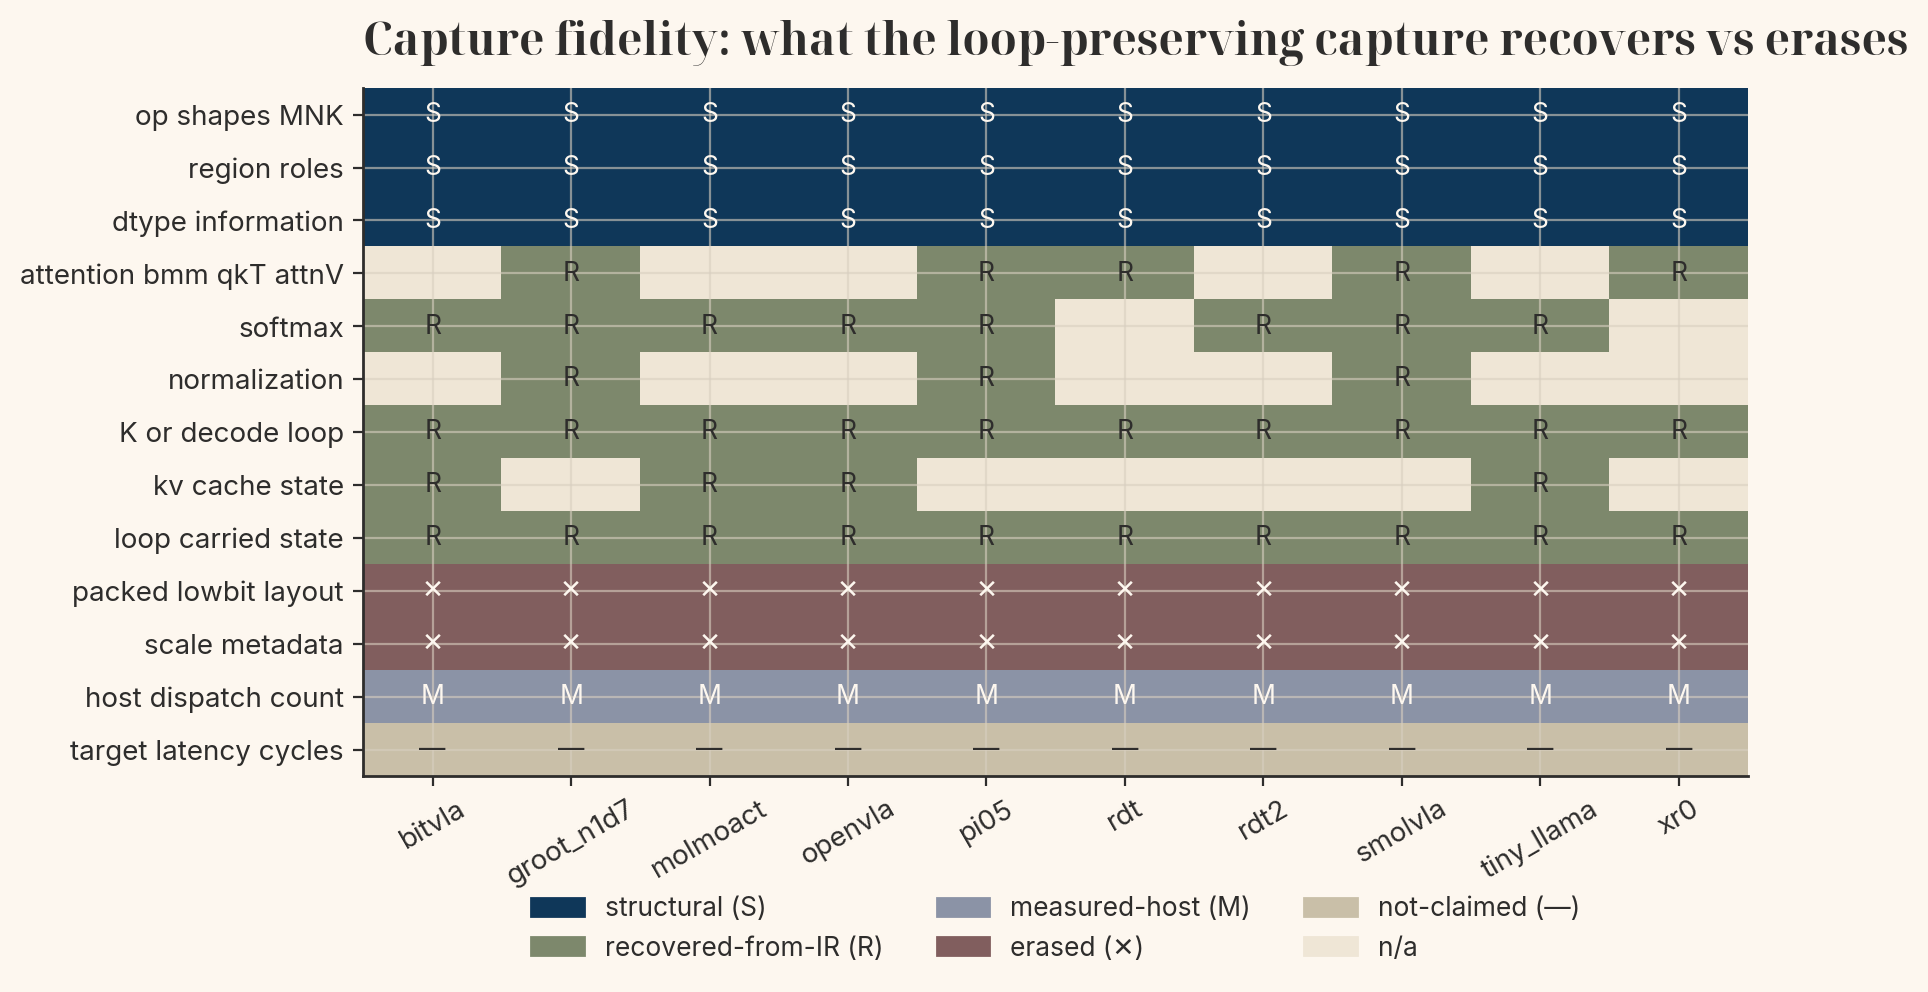
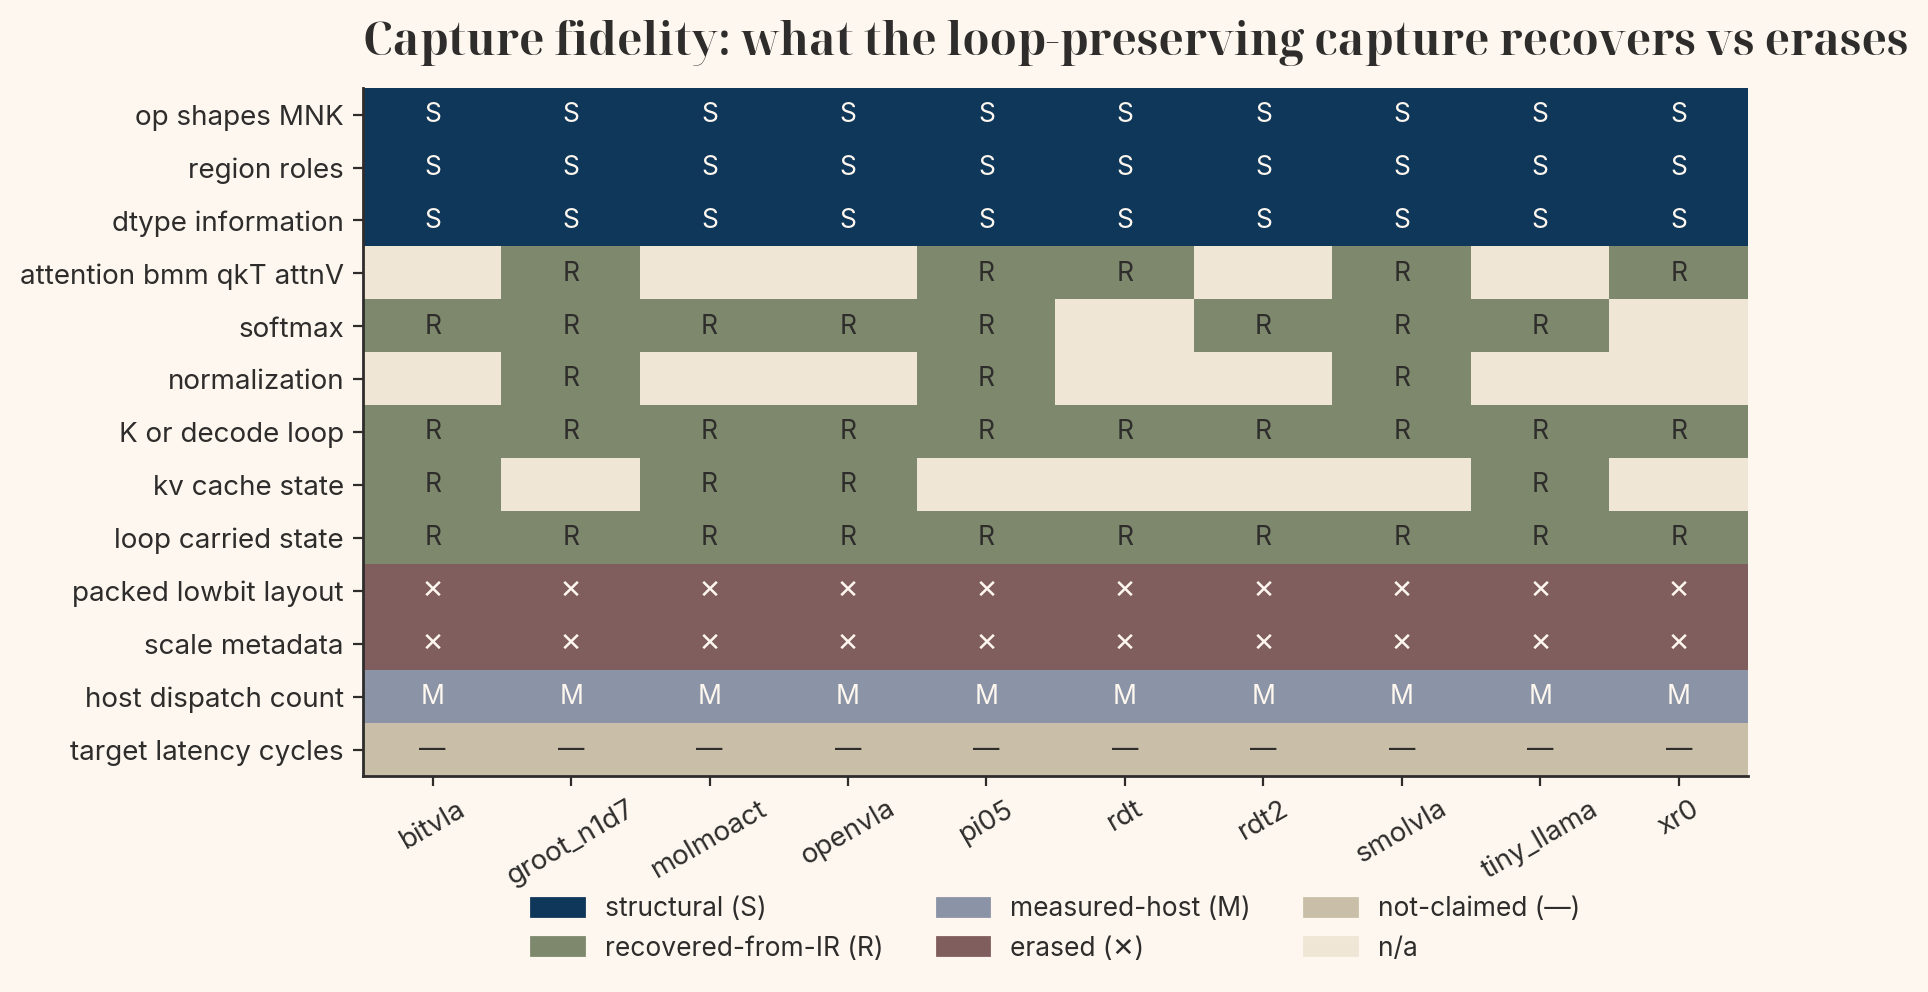
P26 fix: disable grid on heatmaps (boundary_necessity, capture_fidelity, boundary_placement)
The global axes grid was drawing over the imshow cells, so gridlines crossed through the N/U/P/S/R/x
letters and looked like lines connecting them. Heatmaps now set ax.grid(False) (+ the necessity inset);
bar/line plots keep the soft grid (matches the reference style).

diff --git a/merlin/python/merlin/dse_guidance/presentation_final.py b/merlin/python/merlin/dse_guidance/presentation_final.py
@@ -423,6 +423,7 @@ def _r_boundary_necessity_matrix(cs, ax, full=False):
     if not rows:
         return False
     mat = [[_NEC_RANK[r[w]] for w in wls] for r in rows]
+    ax.grid(False)                                          # no grid over heatmap cells
     ax.imshow(mat, aspect="auto", cmap=_nec_cmap(), vmin=0, vmax=4)
     ax.set_xticks(range(len(wls)), wls, rotation=30, fontsize=10)
     ax.set_yticks(range(len(rows)), [r["abstraction"].replace("_", " ") for r in rows], fontsize=10)
@@ -432,6 +433,7 @@ def _r_boundary_necessity_matrix(cs, ax, full=False):
                     color=_BG if mat[i][j] >= 3 else _INK)
     strong = [sum(1 for w in wls if _NEC_RANK[r[w]] >= 3) for r in rows]
     iax = ax.inset_axes([1.04, 0.0, 0.15, 1.0])
+    iax.grid(False)
     ib = iax.barh(range(len(rows)), strong, color=_PALETTE[4], height=0.66, edgecolor=_INK, lw=0.8)
     iax.set_ylim(ax.get_ylim())
     iax.set_yticks([])
@@ -507,6 +509,7 @@ def _r_capture_fidelity(cs, ax):
     states = [[_fid_state(row.get(w, "")) for w in wls] for row in matrix]
     cidx = {s: i for i, s in enumerate(_FID_ORDER)}
     cmap = ListedColormap([_FID_COLOR[s] for s in _FID_ORDER])
+    ax.grid(False)                                          # no grid over heatmap cells
     ax.imshow([[cidx[s] for s in row] for row in states], aspect="auto", cmap=cmap,
               vmin=0, vmax=len(_FID_ORDER) - 1)
     ax.set_xticks(range(len(wls)), wls, rotation=30, fontsize=10)
@@ -720,6 +723,7 @@ def emit_boundary_simplified(cs_dir, fp_dir):
             crow[col] = _BND_MAP.get(st, ("—",))[0]
         grid.append(row)
         csv_rows.append(crow)
+    ax.grid(False)                                          # no grid over heatmap cells
     ax.imshow(grid, aspect="auto", cmap=cmap, vmin=0, vmax=len(cats) - 1)
     ax.set_xticks(range(len(_BND_LEVELS)), [lbl for _, lbl in _BND_LEVELS], fontsize=10)
     ax.set_yticks(range(len(absts)), [a.replace("_", " ") for a in absts], fontsize=10)
